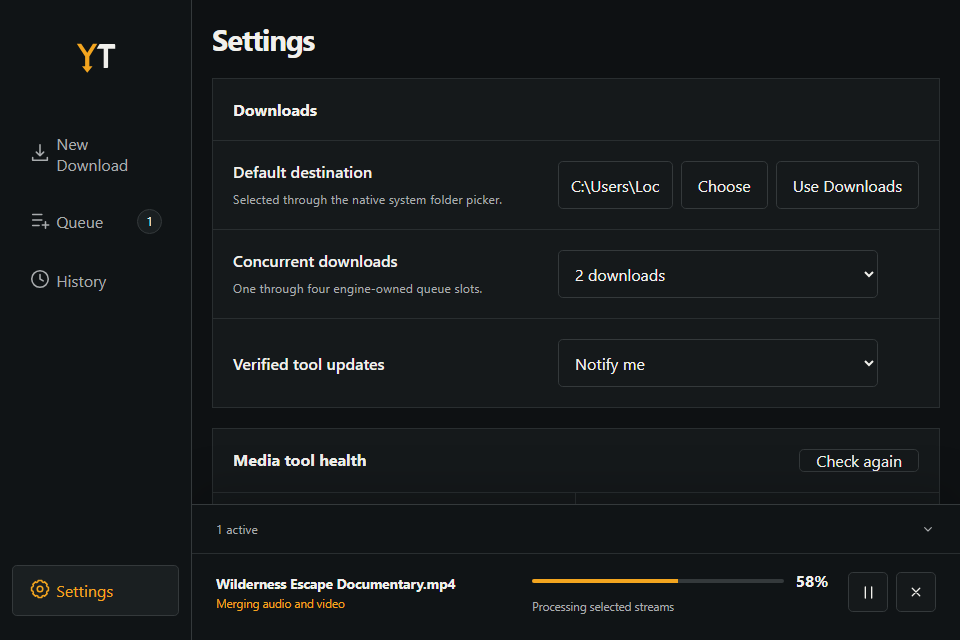
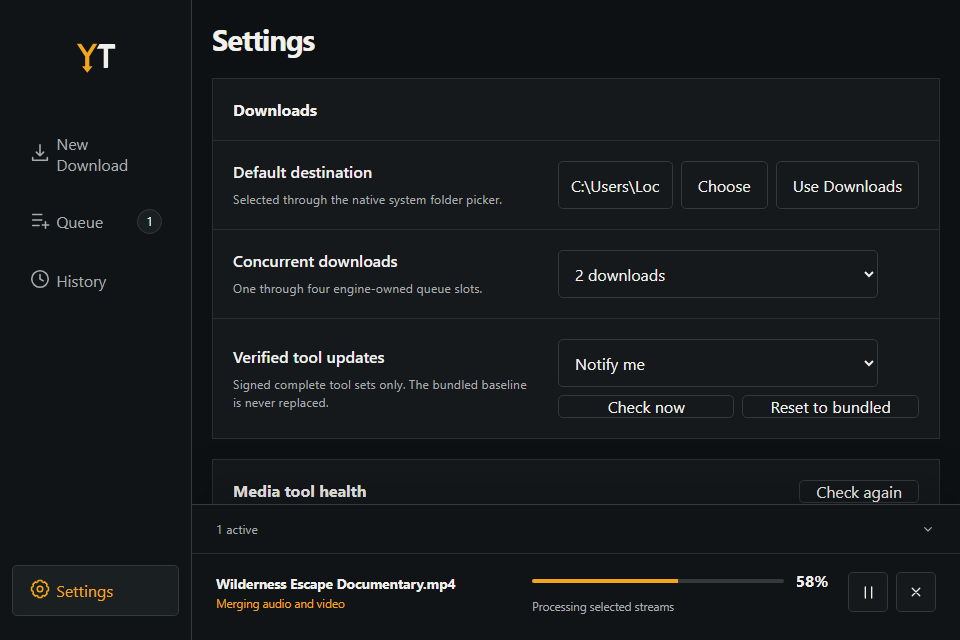
docs: document release readiness

diff --git a/plans/README.md b/plans/README.md
@@ -30,16 +30,16 @@ state first.
 
 ## Plan Registry
 
-| ID  | Milestone                                        | Status      | Depends on | Plan                                                     |
-| --- | ------------------------------------------------ | ----------- | ---------- | -------------------------------------------------------- |
-| 01  | Toolchain and engine foundations                 | `completed` | —          | [Plan 01](completed/01-toolchain-engine-foundations.md)  |
-| 02  | Analysis engine and CLI slice                    | `completed` | 01         | [Plan 02](completed/02-analysis-cli-slice.md)            |
-| 03  | Download and conversion CLI slice                | `completed` | 02         | [Plan 03](completed/03-download-conversion-cli-slice.md) |
-| 04  | Persistent jobs, recovery, and history           | `completed` | 03         | [Plan 04](completed/04-persistent-jobs-recovery.md)      |
-| 05  | Desktop integration and typed IPC                | `completed` | 04         | [Plan 05](completed/05-desktop-integration.md)           |
-| 06  | Desktop UI, accessibility, and motion            | `completed` | 05         | [Plan 06](completed/06-desktop-ui.md)                    |
-| 07  | Verified tool updates and cross-platform release | `in-progress` | 06       | [Plan 07](active/07-updates-packaging-release.md)        |
-| 08  | Developer bootstrap and local tool experience    | `blocked`   | 07         | [Plan 08](backlog/08-developer-bootstrap.md)             |
+| ID  | Milestone                                        | Status        | Depends on | Plan                                                     |
+| --- | ------------------------------------------------ | ------------- | ---------- | -------------------------------------------------------- |
+| 01  | Toolchain and engine foundations                 | `completed`   | —          | [Plan 01](completed/01-toolchain-engine-foundations.md)  |
+| 02  | Analysis engine and CLI slice                    | `completed`   | 01         | [Plan 02](completed/02-analysis-cli-slice.md)            |
+| 03  | Download and conversion CLI slice                | `completed`   | 02         | [Plan 03](completed/03-download-conversion-cli-slice.md) |
+| 04  | Persistent jobs, recovery, and history           | `completed`   | 03         | [Plan 04](completed/04-persistent-jobs-recovery.md)      |
+| 05  | Desktop integration and typed IPC                | `completed`   | 04         | [Plan 05](completed/05-desktop-integration.md)           |
+| 06  | Desktop UI, accessibility, and motion            | `completed`   | 05         | [Plan 06](completed/06-desktop-ui.md)                    |
+| 07  | Verified tool updates and cross-platform release | `in-progress` | 06         | [Plan 07](active/07-updates-packaging-release.md)        |
+| 08  | Developer bootstrap and local tool experience    | `blocked`     | 07         | [Plan 08](backlog/08-developer-bootstrap.md)             |
 
 ## Locked Product Decisions
 

diff --git a/README.md b/README.md
@@ -3,9 +3,10 @@
 Local-first media tooling built around one reusable Rust engine, with a command-line interface and
 a native cross-platform desktop application.
 
-> **Status:** verified toolchain foundations, public-video analysis/download, persistent
-> engine-owned jobs, and the typed native desktop integration are implemented. The polished
-> desktop product UI remains the next milestone.
+> **Status:** the local-first engine, CLI, native desktop UI, immutable bundled tools, signed
+> managed-update system, and six-target release preparation are implemented. Public distribution
+> remains disabled pending explicit approval, project licensing, and production signing
+> credentials.
 
 ## Architecture
 
@@ -219,6 +220,12 @@ pnpm build:desktop
 
 Tauri bundles the target-qualified executables and `SHA256SUMS` inventory as resources. The engine
 verifies both checksums and exact tool identities before enabling analysis or downloads.
+
+Release preparation, protected signing, runtime update behavior, required environment
+configuration, and the six-target artifact matrix are documented in
+[`docs/release.md`](docs/release.md). The validation workflow does not publish or upload its
+ephemeral packages. Public release publication is a separate protected workflow that requires new
+explicit authorization.
 
 ### Opt-in live smoke
 
